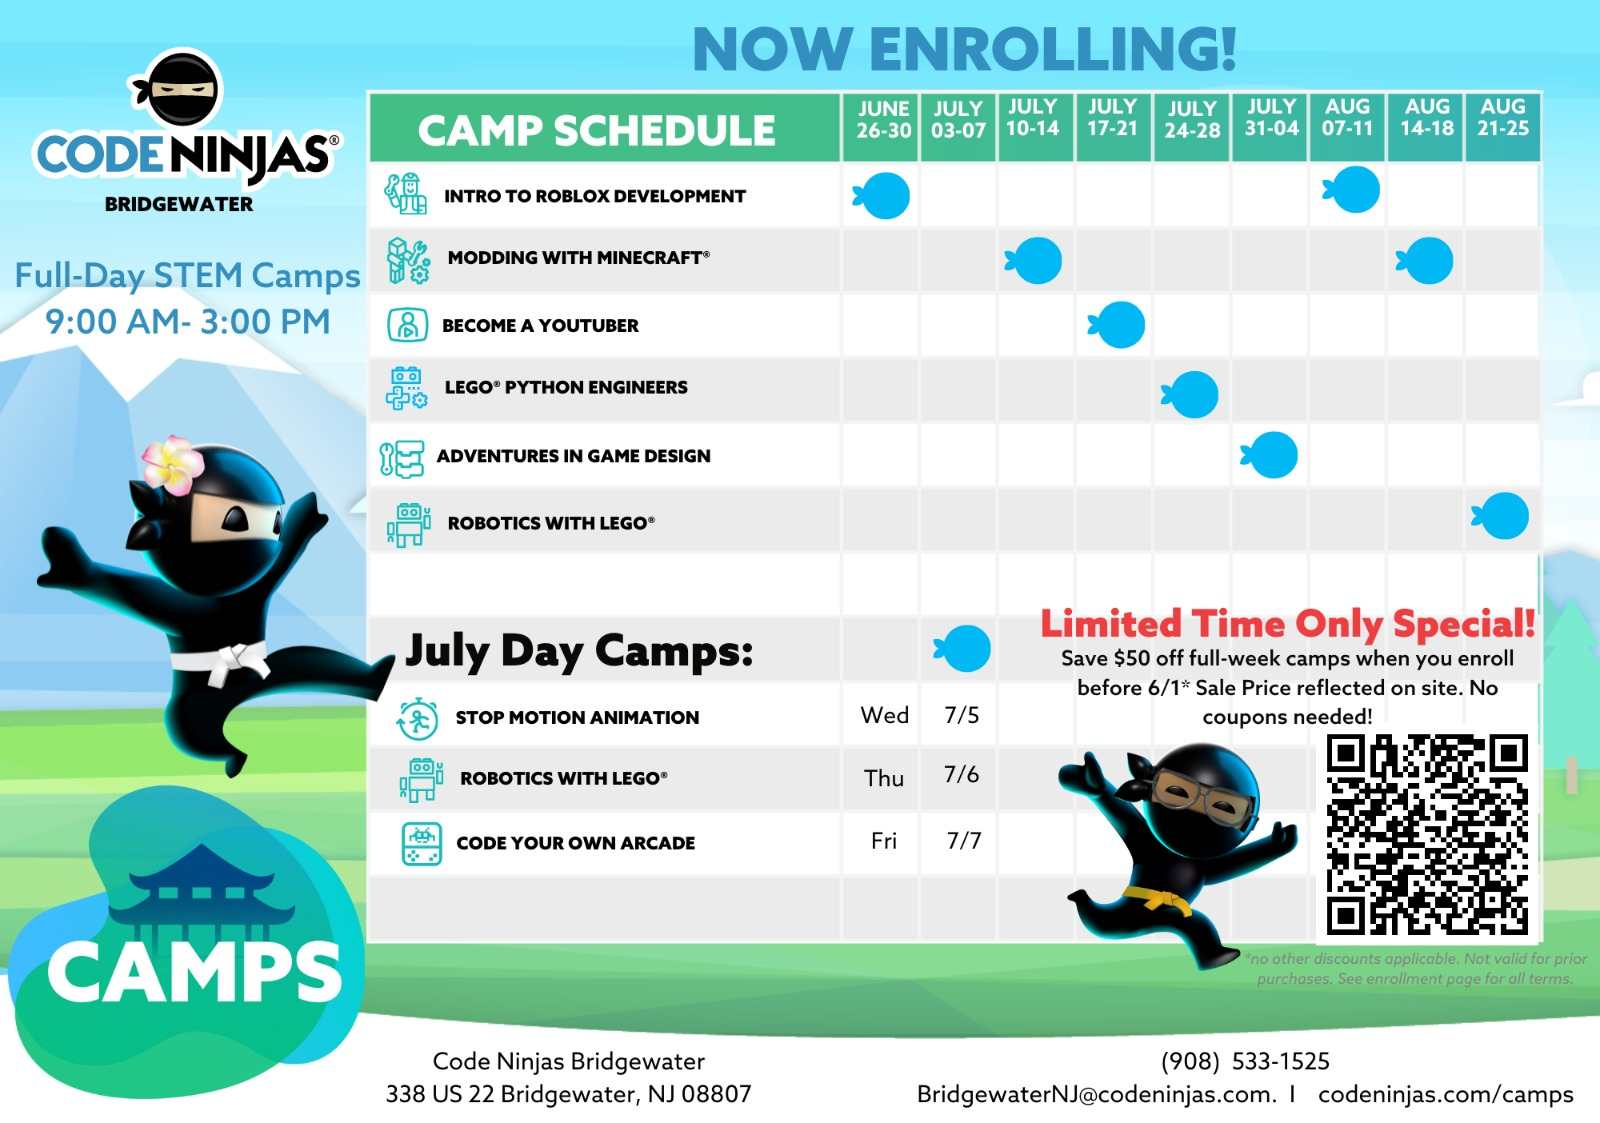
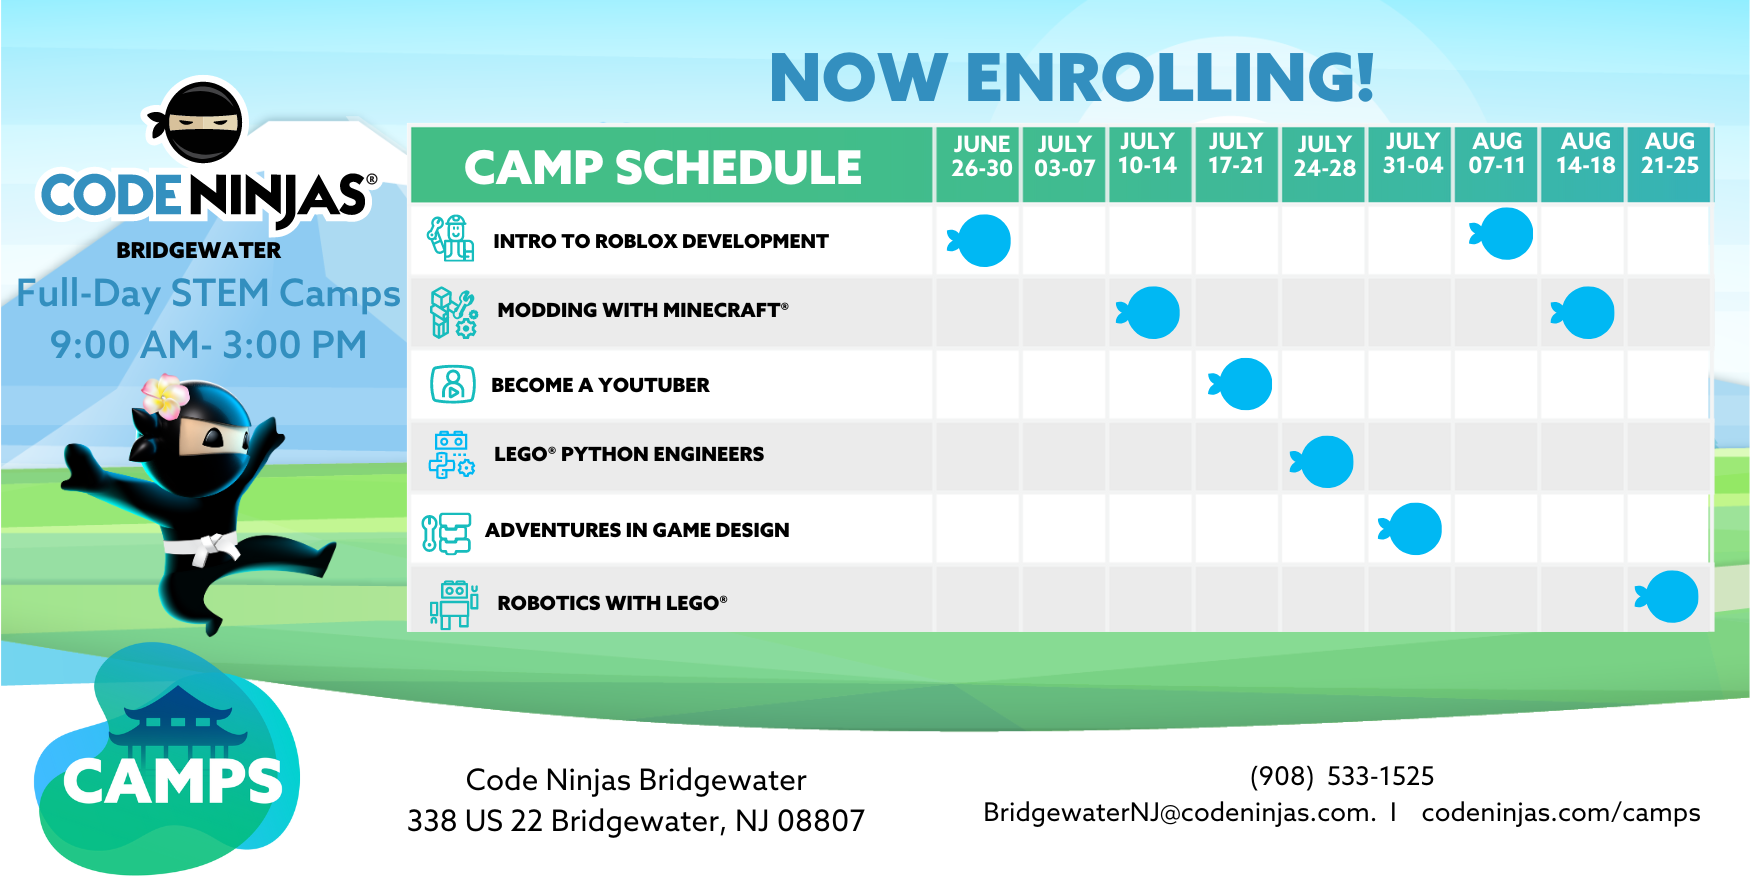
add

diff --git a/index.html b/index.html
@@ -392,80 +392,23 @@
                     </div>
                 </div>
 
-                <div class="col-1-3 mix summer">
-                    <div class="content">
-                        <div class="recent-work">
-                            <a href="https://cn.mystudio.io/e/?=bridgewater/144/26050//1676046728"><img
-                                    src="images/work/camps/Stop_Motion_Animation.png" alt=""></a>
-                            <div class="overlay">
-                                <span>Day camp.
-                                    Ninjas will learn video production through
-                                    Claymation, LEGO, paper cutouts, and more! Capturing
-                                    images frame-by-frame, they will produce videos in a rapid prototyping style.
-                                </span>
-                                <h2><a class="img-wrap"
-                                        href="https://cn.mystudio.io/e/?=bridgewater/144/26050//1676046728"><u>Stop
-                                            Motion
-                                            Animation</u></a></h2>
-                            </div>
-                        </div>
-                    </div>
-                </div>
-
-                <div class="col-1-3 mix summer">
-                    <div class="content">
-                        <div class="recent-work">
-                            <a href="https://cn.mystudio.io/e/?=bridgewater/144/37318//1676046728"><img
-                                    src="images/work/camps/Robotics_With_Lego.png" alt=""></a>
-                            <div class="overlay">
-                                <span>Day camp. Ninjas will make dancing robots, a working safe
-                                    with password detection, a racing rhino, and more! Using the LEGO® SPIKE™ Prime
-                                    robotics kit, Ninjas will learn the fundamentals of how to design, build, and
-                                    code robots.</span>
-                                <h2><a class="img-wrap"
-                                        href="https://cn.mystudio.io/e/?=bridgewater/144/37318//1676046728"><u>Robotics
-                                            with LEGO (Day)</u></a></h2>
-                            </div>
-                        </div>
-                    </div>
-                </div>
-
-                <div class="col-1-3 mix summer">
-                    <div class="content">
-                        <div class="recent-work">
-                            <a href="https://cn.mystudio.io/e/?=CNGB/231/20239//1676045228"><img
-                                    src="images/work/camps/Code_Your_Own_Arcade.png" alt=""></a>
-                            <div class="overlay">
-                                <span>
-                                    Day camp. Ninjas will create retro-style arcade games with Microsoft MakeCode
-                                    Arcade. At the end of the camp, they will bring
-                                    their games to life on handheld gaming devices.
-                                </span>
-                                <h2><a class="img-wrap"
-                                        href="https://cn.mystudio.io/e/?=CNGB/231/20239//1676045228"><u>Code Your
-                                            Own Arcade</u></a></h2>
-                            </div>
-                        </div>
-                    </div>
-                </div>
-
                 <div class="mobileHide">
                     <img style="padding-top: 40px" src="images/work/bwCampSched.png" alt="Bridewater Camp Schedule"
                         width="70%" height="70%">
                 </div>
 
                 <div class="computerHide">
-                    <img style="padding-top: 20px" src="images/work/bwCampSched_cut.png" alt="Bridewater Camp Schedule"
+                    <img style="padding-top: 20px" src="images/work/bwCampSched.png" alt="Bridewater Camp Schedule"
                         width="90%" height="90%">
                 </div>
 
             </div>
         </section>
-        <h5 class="infoText">
+        <!-- <h5 class="infoText">
             Full day camps with STEM fun!<br> Every camp day includes enriching STEM activities such as: <br>Snap
             Circuits, Virtual
             Escape Rooms, Robotics, <br>Legos, 3D Printing, Stop Motion, Animation, Makey Makey, and more!
-        </h5>
+        </h5> -->
     </div>
     <!-- End Work Section -->
 
@@ -656,14 +599,13 @@
             <div class="content">
                 <div class="col-1-1">
                     <section id="price-tables">
-                        <h2>Promotions (all end June 1st 2023)</h2>
+                        <h2>Current Promotions</h2>
                         <ul id="plans">
                             <h4 style="line-height: 1em">- Buy 3 months of Create, get one month free ($777 total).</h4>
                             <h4 style="line-height: 1em">- $50 off week-long summer camp enrollment.</h4>
                             <h4 style="line-height: 1em">- $25 off individual July summer day camp enrollment.</h4>
                             <h4 style="line-height: 1em">- Get all three July summer day camps for $350 total (save
                                 $100).</h4>
-
                         </ul>
                     </section>
                     <p id="centeringText"><b style="font-weight: 800">Disclaimer</b>: discounts can not be combined
@@ -1132,7 +1074,8 @@
                             <p>
                                 <br>Tue. & Thr. from 5pm to 7pm
                                 <br>Wed. from 4pm-7pm
-                                <br>Sat. & Sun. from 10am-1pm</p>
+                                <br>Sat. & Sun. from 10am-1pm
+                            </p>
                         </div>
 
                         <div>
